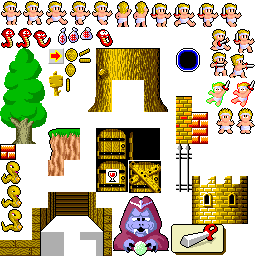
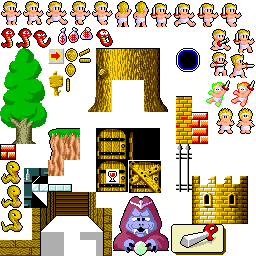
updated newgame

Changed region(s): [[0.0938, 0.6562, 0.2812, 0.8125]]

diff --git a/src/monkey/model/factory.cpp b/src/monkey/model/factory.cpp
@@ -101,10 +101,20 @@ std::shared_ptr<Model> ModelFactory::_tiled(const ITab & t) {
                 n += 1;
                 continue;
             }
-            verts.emplace_back(i * tileWidth, j * tileHeight, 0, data[n] * tw, (data[n+1] + 1) * th, 1, 1, 1, 1);
-            verts.emplace_back((i+1) * tileWidth, j * tileHeight, 0, (data[n] + 1) * tw, (data[n+1] +1) * th, 1, 1, 1, 1);
-            verts.emplace_back((i+1) * tileWidth, (j + 1) * tileHeight, 0, (data[n] + 1) * tw, data[n+1] * th, 1, 1, 1, 1);
-            verts.emplace_back(i * tileWidth, (j+1) * tileHeight, 0, data[n] * tw, data[n+1] * th, 1, 1, 1, 1);
+            bool fliph = false;
+            if (data[n] == -2) {
+                // flip horizontally next tile
+                n++;
+                fliph = true;
+
+            }
+            float tx0 = data[n] * tw;
+            float tx1 = (data[n] + 1) * tw;
+            if (fliph) std::swap(tx0, tx1);
+            verts.emplace_back(i * tileWidth, j * tileHeight, 0, tx0, (data[n+1] + 1) * th, 1, 1, 1, 1);
+            verts.emplace_back((i+1) * tileWidth, j * tileHeight, 0, tx1, (data[n+1] +1) * th, 1, 1, 1, 1);
+            verts.emplace_back((i+1) * tileWidth, (j + 1) * tileHeight, 0, tx1, data[n+1] * th, 1, 1, 1, 1);
+            verts.emplace_back(i * tileWidth, (j+1) * tileHeight, 0, tx0, data[n+1] * th, 1, 1, 1, 1);
             indices.push_back(v);
             indices.push_back(v+1);
             indices.push_back(v+2);

diff --git a/games/newgame.py b/games/newgame.py
@@ -1,11 +1,12 @@
 #!/usr/bin/python3
 
+# script to create a blank game!
+
 import os
 import argparse
 
-
-
 parser = argparse.ArgumentParser(description = "Create a blank new game.")
+
 parser.add_argument('file', metavar='file', help = 'the name of the game')
 
 args = parser.parse_args()
@@ -18,14 +19,28 @@ if os.path.isdir(filename):
 os.mkdir(filename)
 os.mkdir(filename + '/assets')
 os.mkdir(filename + '/data')
+os.mkdir(filename + '/data/scripts')
 os.mkdir(filename + '/fonts')
 os.mkdir(filename + '/gfx')
 os.mkdir(filename + '/rooms')
 
 open(filename + '/data/globals.py', 'a').close()
 f = open(filename + '/data/__init__.py', 'w')
-f.write('from .globals import *')
+f.write('from .globals import *\n')
+f.write('from .scripts import *\n')
 f.close()
+
+f = open(filename + '/data/scripts/__init__.py', 'w')
+f.write('from .init import *')
+f.close()
+
+f = open(filename + '/data/scripts/init.py', 'w')
+f.write('def init():\n')
+f.write('\t# put here your initialization code\n')
+f.write('\tpass\n')
+f.close()
+
+
 
 f = open(filename+'/main.py', 'w')
 f.write("from mopy.engine import Engine\n")

diff --git a/games/wbml/data/globals.py b/games/wbml/data/globals.py
@@ -65,7 +65,8 @@ collision_engine = {
 }
 
 doors = {
-    0: {'open': 1, 'anim': 'closed', 'room': 'pippo'}
+    0: {'open': 1, 'anim': 'closed', 'room': 'pippo'},
+    1: {'open': 1, 'anim': 'bar', 'room': 'bar'}
 }
 
 room0 = 0

diff --git a/games/test_bullet/main.py b/games/test_bullet/main.py
@@ -1,0 +1,4 @@
+from mopy.engine import Engine
+import data
+
+engine = Engine(data=data)

diff --git a/games/test_bullet/data/scripts/init.py b/games/test_bullet/data/scripts/init.py
@@ -1,0 +1,3 @@
+def init():
+	# put here your initialization code
+	pass

diff --git a/games/test_bullet/data/__init__.py b/games/test_bullet/data/__init__.py
@@ -1,0 +1,2 @@
+from .globals import *
+from .scripts import *

diff --git a/games/test_bullet/data/scripts/__init__.py b/games/test_bullet/data/scripts/__init__.py
@@ -1,0 +1,1 @@
+from .init import *
